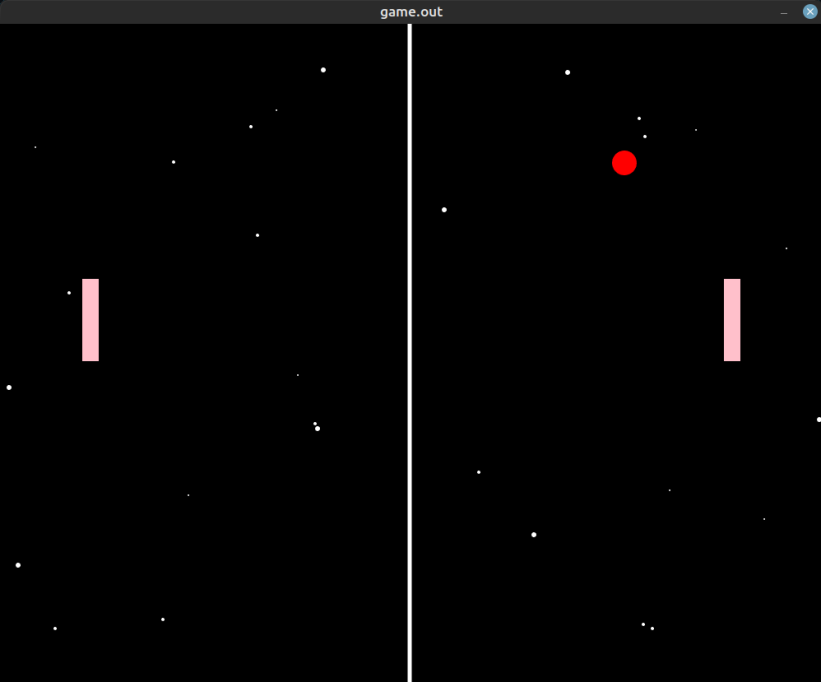
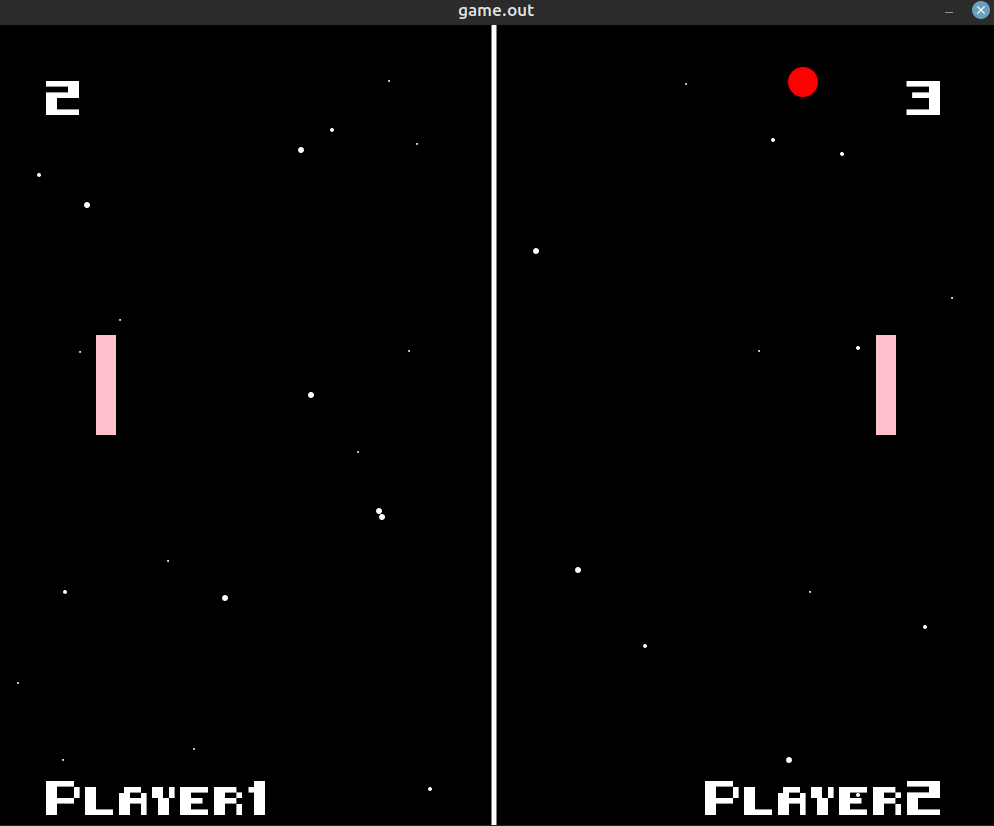
Fontsgit add .git add .

diff --git a/src/run.c b/src/run.c
@@ -1,6 +1,5 @@
 #include <stdio.h>
-#include<stdlib.h>
-
+#include <stdlib.h>
 
 
 #include <allegro5/allegro5.h>
@@ -8,7 +7,9 @@
 #include <allegro5/allegro_acodec.h>
 #include <allegro5/allegro_primitives.h>
 #include <allegro5/allegro_font.h>
+#include <allegro5/allegro_ttf.h>
 
+#include "font.h"
 #include "game.h"
 #include "sound.h"
 #define KEY_SEEN 1
@@ -68,21 +69,22 @@ int main(){
     	must_init(al_init_acodec_addon(), "audio codecs");
     	must_init(al_reserve_samples(16), "reserve samples");
 	must_init(al_init_font_addon(), "fonts");
-
+	must_init(al_init_ttf_addon(), "ttf_fonts");
 	al_register_event_source(event_queue, al_get_keyboard_event_source());
 	al_register_event_source(event_queue, al_get_display_event_source(disp));
 	al_register_event_source(event_queue, al_get_timer_event_source(timer));
 	
 	init_sound_files();
-	
+	load_fonts();
 
 	Player player1 = {.name = {0}, .points = 0}, player2  = {.name = {0}, .points = 0};
 	printf("Player1\nEnter your name\n");
 	fgets(player1.name, 20, stdin);
-	
+	player1.name[strlen(player1.name) - 1] = 0;
 
 	printf("Player2\nEnter your name\n");
 	fgets(player2.name, 20, stdin);
+	player2.name[strlen(player2.name) - 1] = 0;
 
 
 	Bar bar1 = {.position = {.x = 100, .y = 640 / 2 - 20 / 2}, .size = {.width = 20, .height = 100}, .color = al_map_rgb(255, 192, 203)};
@@ -164,7 +166,7 @@ int main(){
 		if(redraw){
 				
 			al_clear_to_color(al_map_rgb(0, 0, 0));
-
+			render_points(player1.name, player2.name, player1.points, player2.points);
 			{//drawing them stars
 
 				Vector2* ptr = stars;

diff --git a/src/font.c b/src/font.c
@@ -1,0 +1,19 @@
+#include "font.h"
+#include <stdio.h>
+#include <allegro5/allegro_font.h>
+
+
+void load_fonts(){
+	font = al_load_ttf_font("../../assets/8-bit-hud.ttf", 28, 0);
+	if(!font)
+		printf("Font failedddd!!!!!");
+}
+
+void render_points(const char* name1, const char* name2, unsigned int player1, unsigned int player2){
+	char points1[2] = {player1 + 48, 0};
+	char points2[2] = {player2 + 48, 0};
+	al_draw_text(font, al_map_rgb(255, 255, 255), 50, 50, ALLEGRO_ALIGN_LEFT, points1);
+	al_draw_text(font, al_map_rgb(255, 255, 255), 1000 - 50, 50, ALLEGRO_ALIGN_RIGHT, points2);
+	al_draw_text(font, al_map_rgb(255, 255, 255), 50, 800 - 50, ALLEGRO_ALIGN_LEFT, name1);
+	al_draw_text(font, al_map_rgb(255, 255, 255), 1000 - 50, 800 - 50, ALLEGRO_ALIGN_RIGHT, name2);
+}

diff --git a/src/font.h b/src/font.h
@@ -1,0 +1,11 @@
+#ifndef FONT_H
+#define FONT_H
+
+#include<allegro5/allegro_ttf.h>
+#include<allegro5/allegro_font.h>
+
+ALLEGRO_FONT *font;
+
+void load_fonts();
+void render_points(const char*, const char*, unsigned  int, unsigned int);
+#endif
